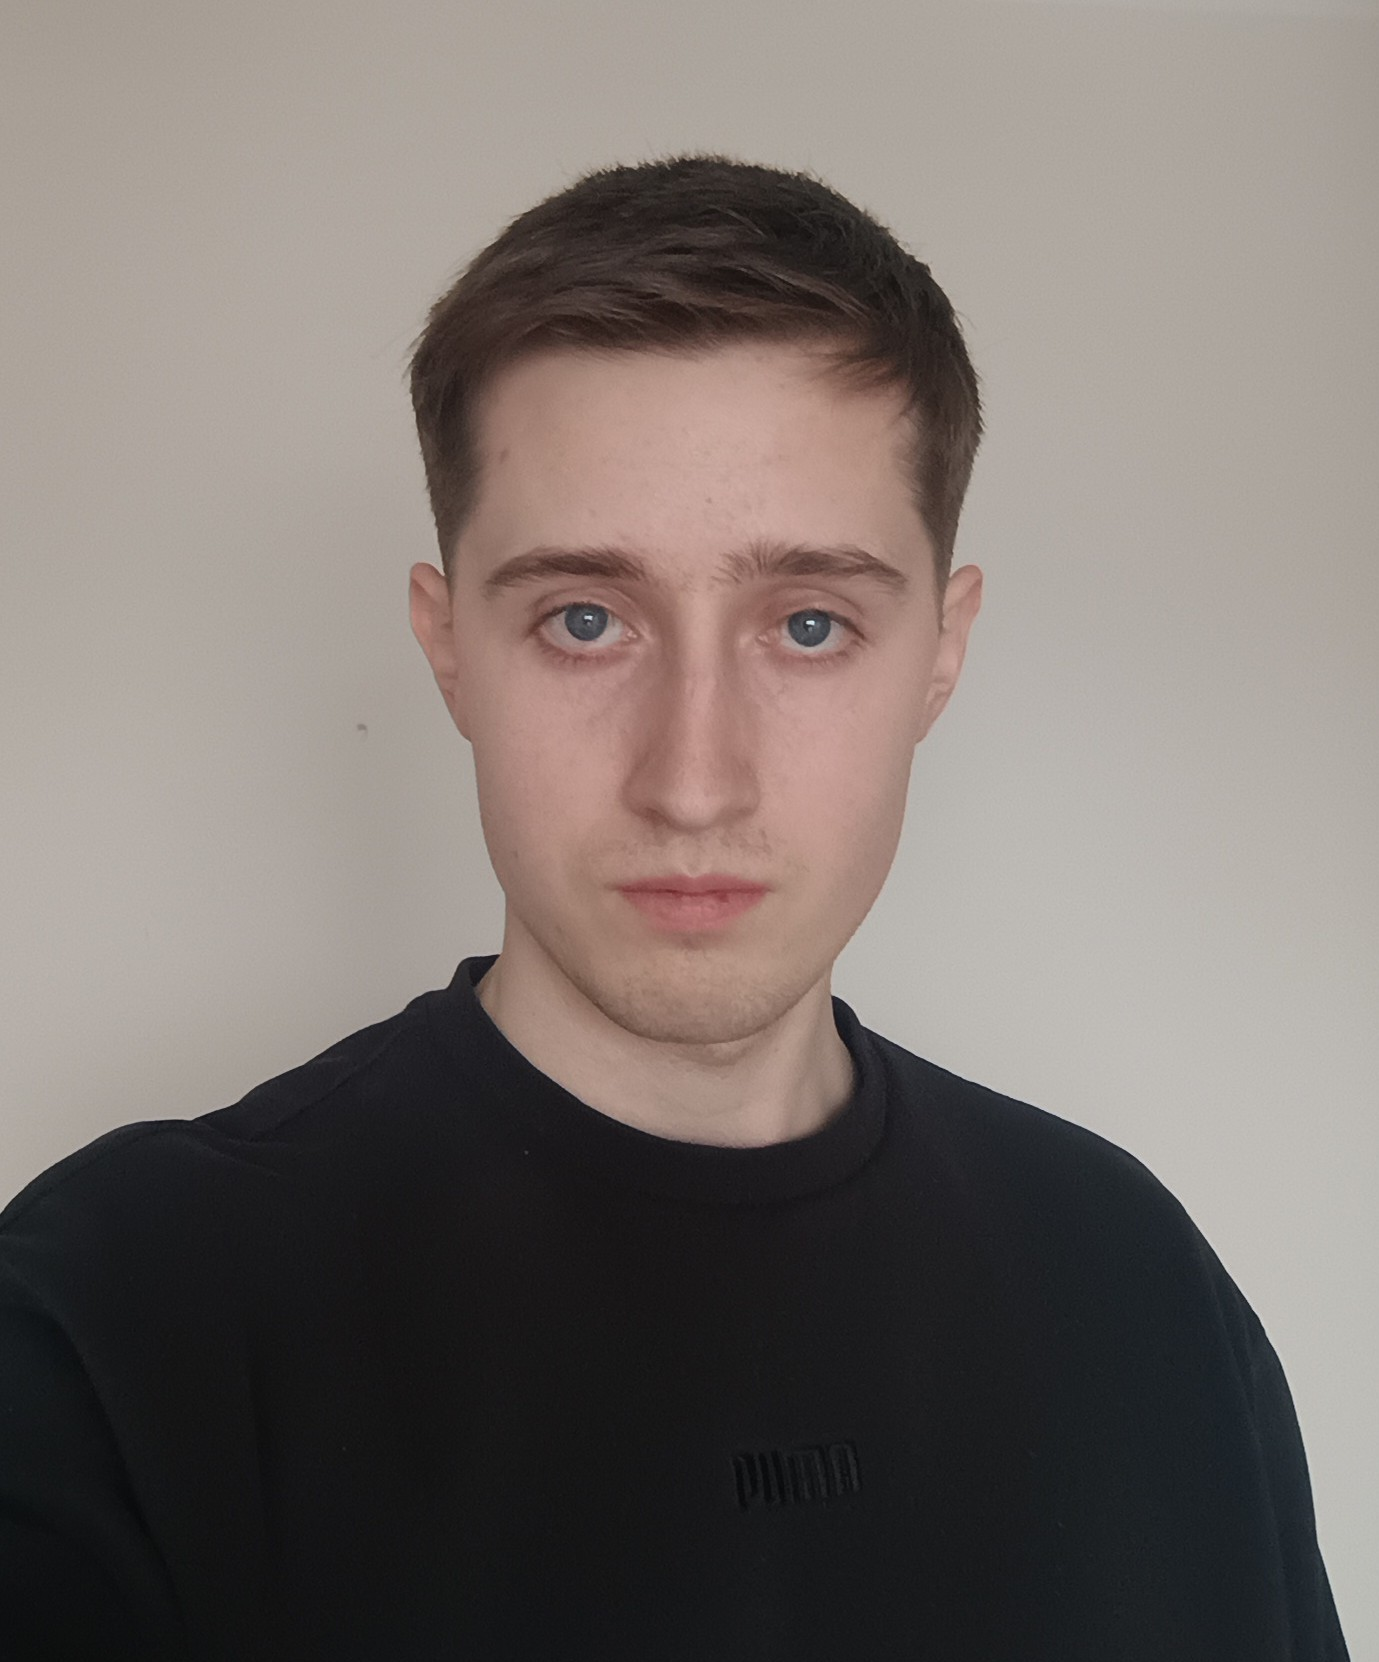
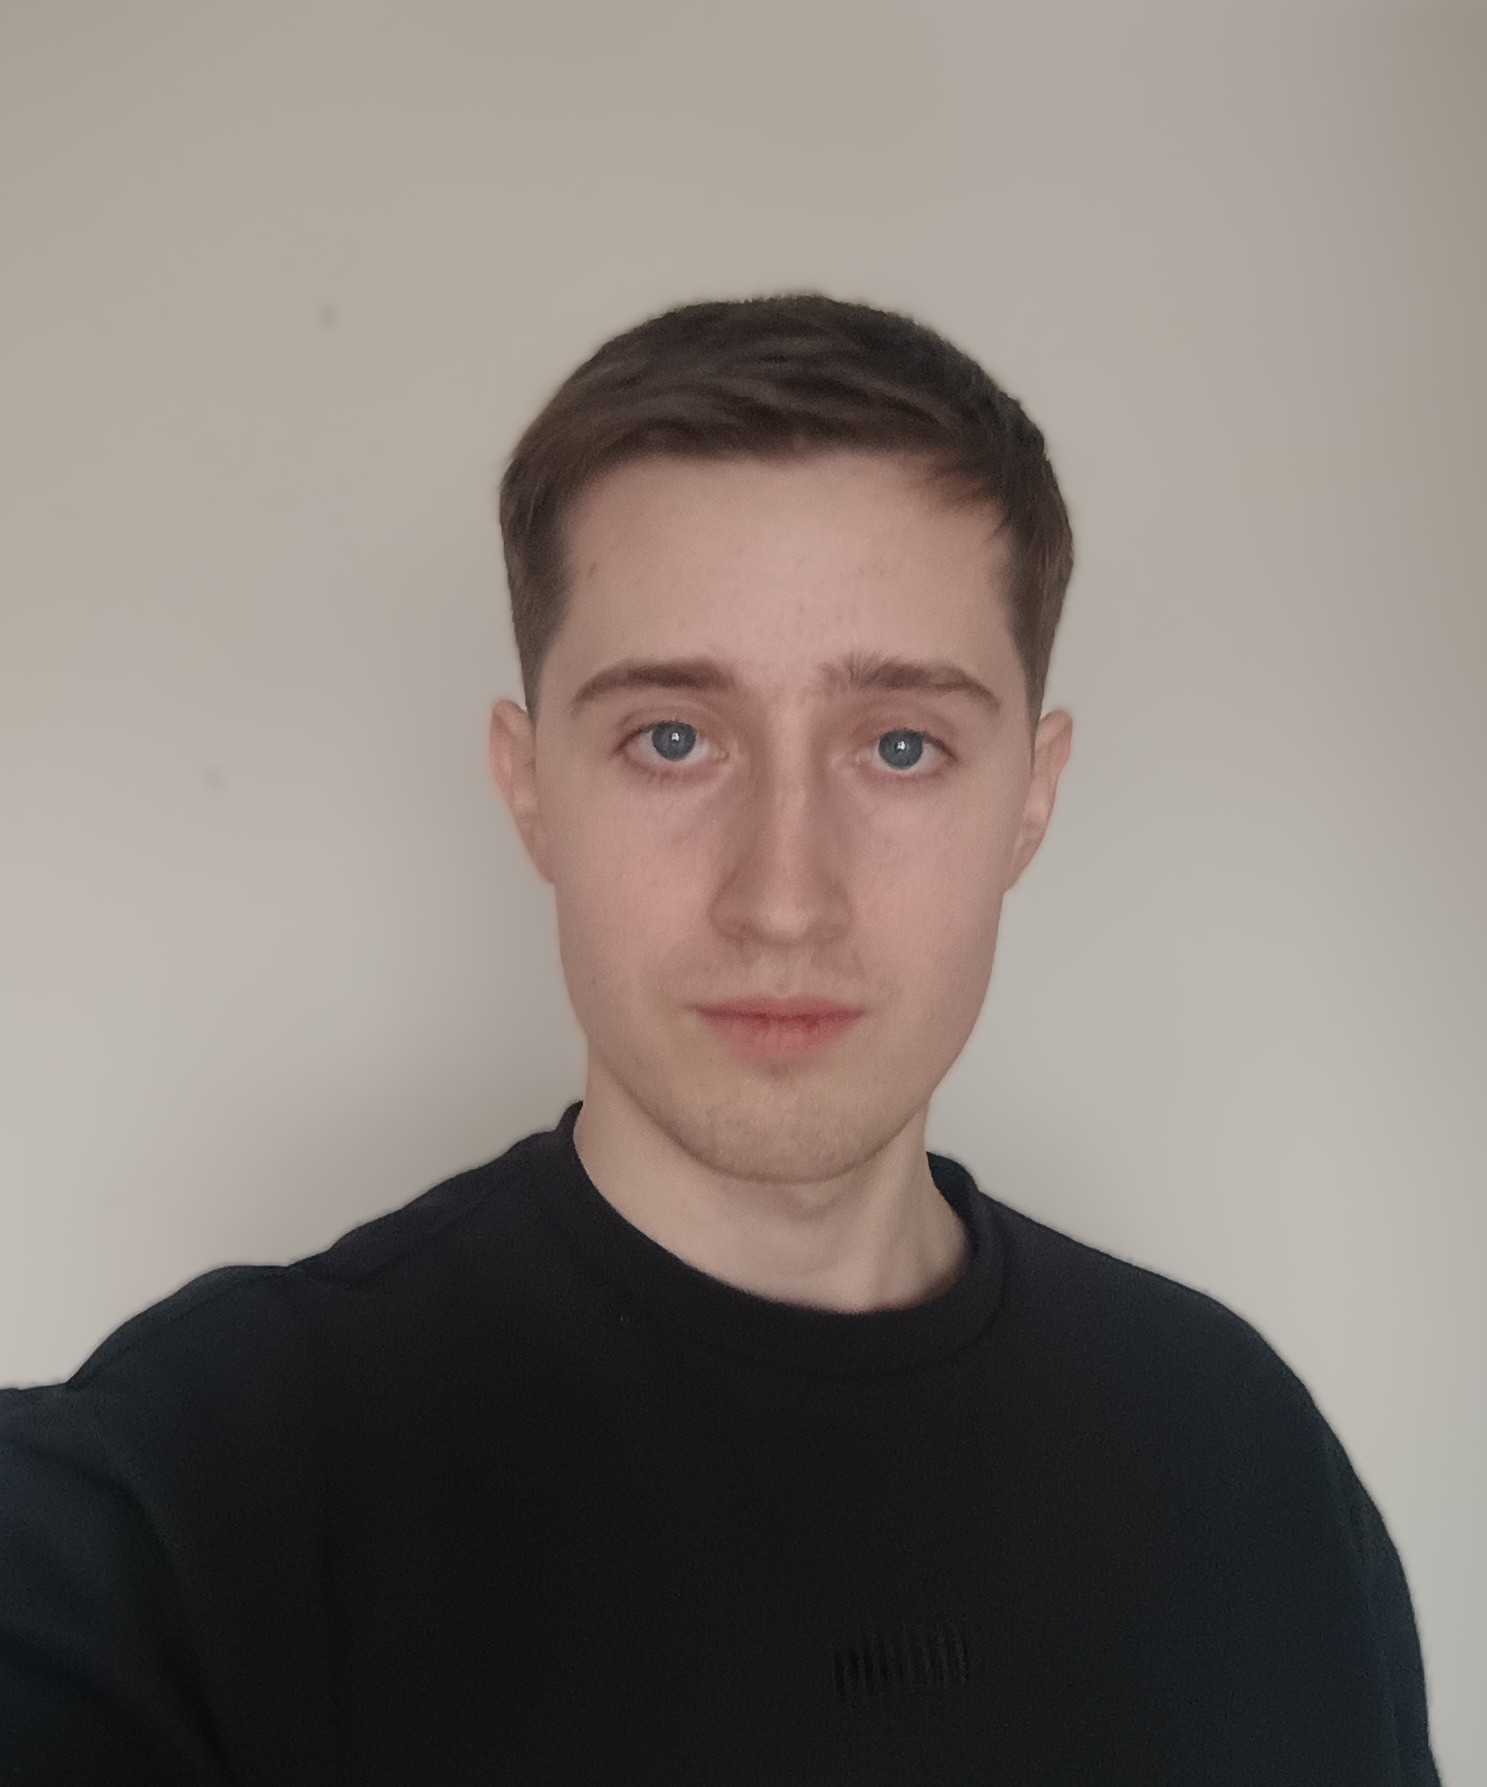
Change main image and projects order

Changed region(s): [[0.0, 0.0921, 0.9666, 0.9819], [0.9666, 0.9819, 0.9978, 1.0]]

diff --git a/src/index.js b/src/index.js
@@ -26,13 +26,6 @@ const projectsSection = createProjectsSection([
     contactListProjectImgSrc,
   ),
   createProject(
-    "Memory cards",
-    "Click all cards only once",
-    "https://memory-card-steel.vercel.app/",
-    "https://github.com/nightshiftguy/memory-card",
-    memoryCardProjectImgSrc,
-  ),
-  createProject(
     "Battleship",
     "Try to destroy all enemy ships",
     "https://nightshiftguy.github.io/battleship/",
@@ -52,6 +45,13 @@ const projectsSection = createProjectsSection([
     "https://nightshiftguy.github.io/tic-tac-toe/",
     "https://github.com/nightshiftguy/tic-tac-toe",
     ticTacToeProjectImgSrc,
+  ),
+    createProject(
+    "Memory cards",
+    "Click all cards only once",
+    "https://memory-card-steel.vercel.app/",
+    "https://github.com/nightshiftguy/memory-card",
+    memoryCardProjectImgSrc,
   ),
   createProject(
     "Weather app",

diff --git a/src/styles.css b/src/styles.css
@@ -63,7 +63,7 @@ section p {
 
 .about-me-img-wrapper{
   display:block;
-  height:260px;
+  height:250px;
 }
 
 .about-me-img{
@@ -154,7 +154,7 @@ section p {
 @media (min-width: 751px){
    .about-me-img{
     left:200px;
-    top:225px;
+    top:215px;
 
     transform: translate(-50%, -50%);
   }
